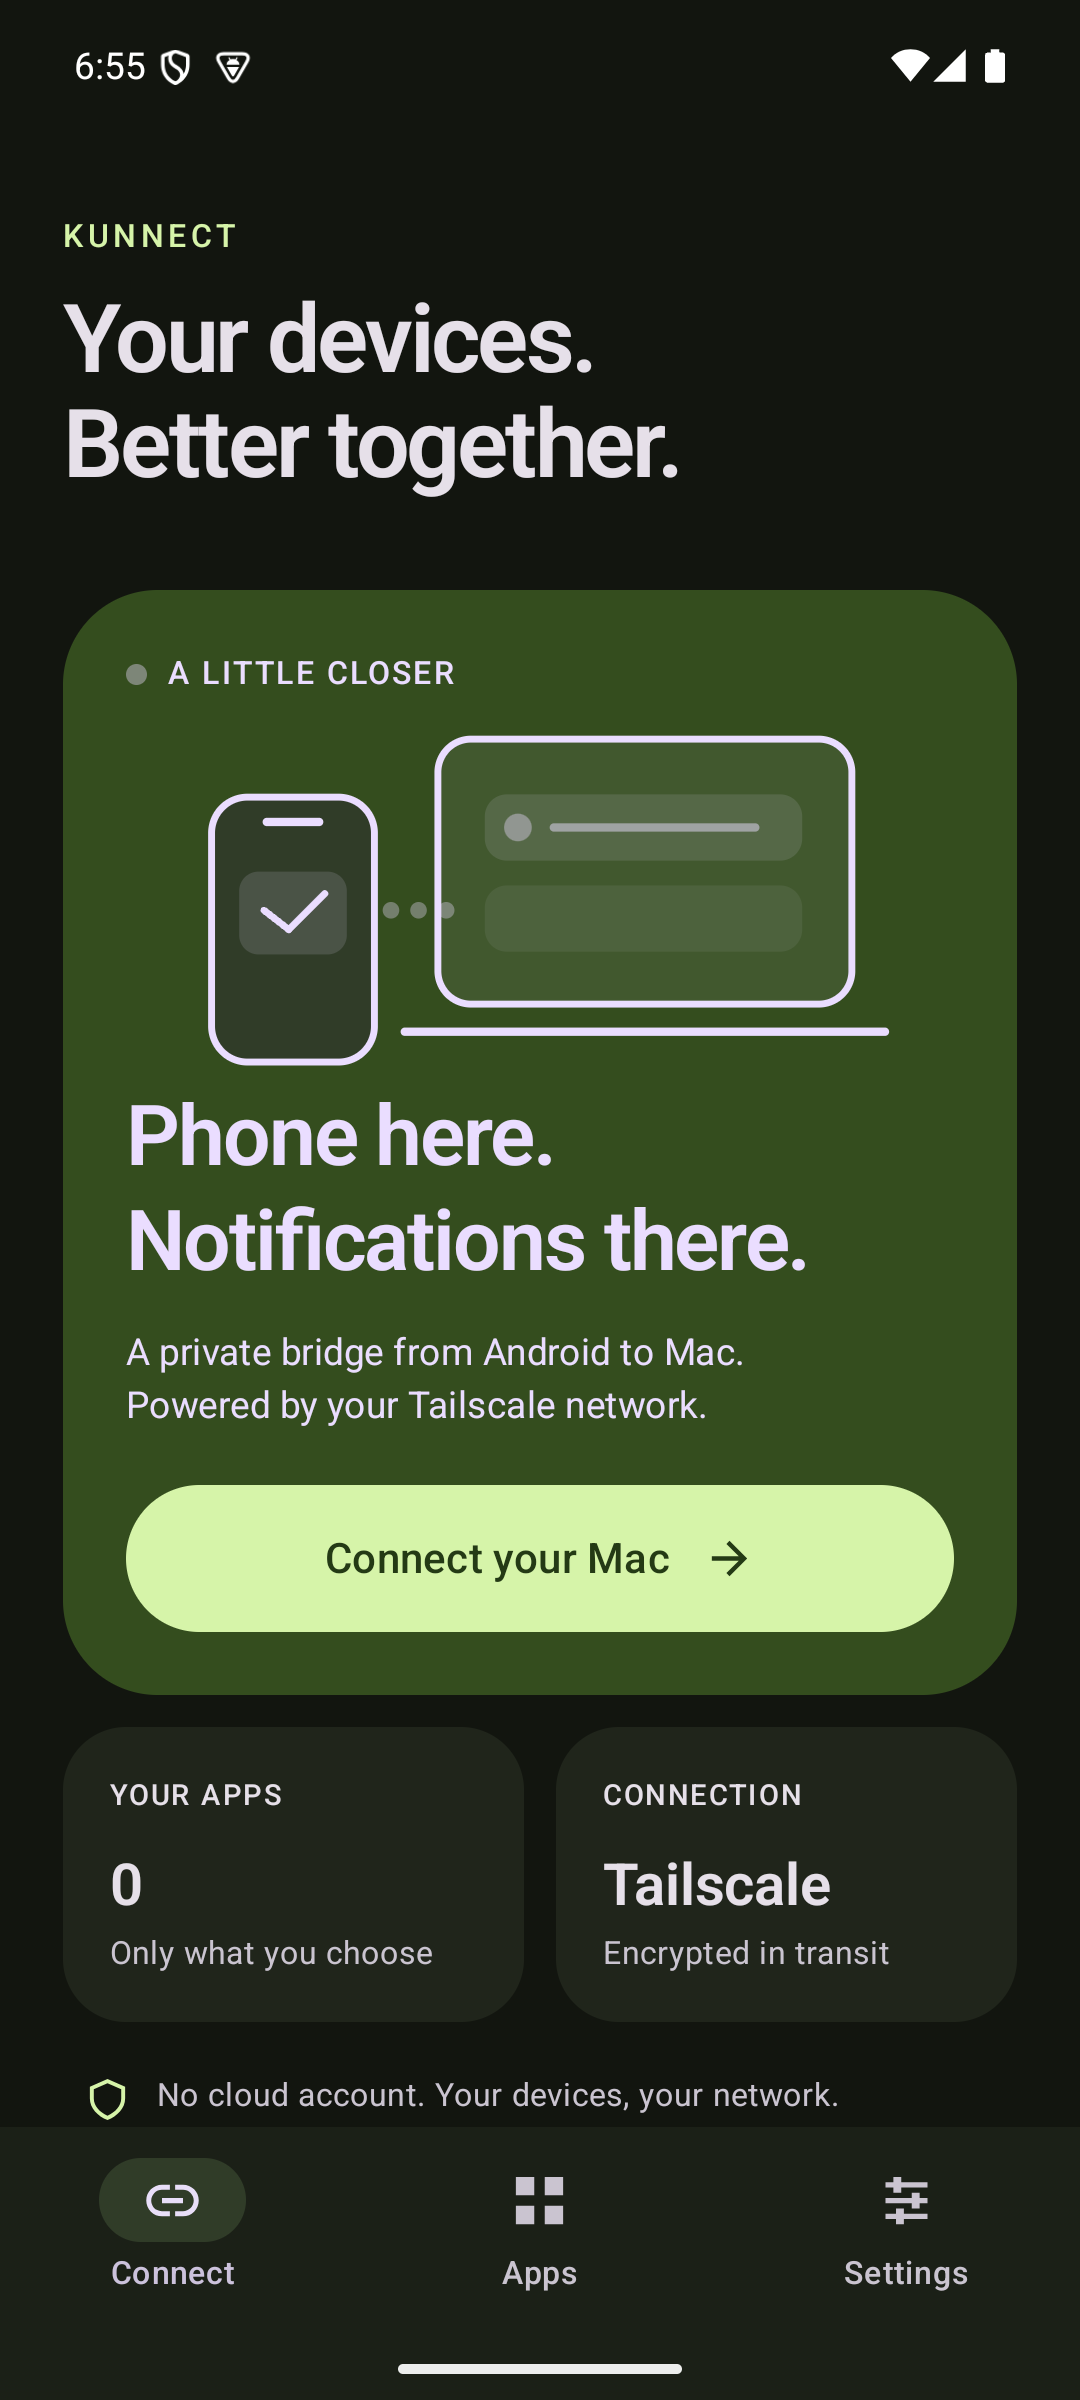
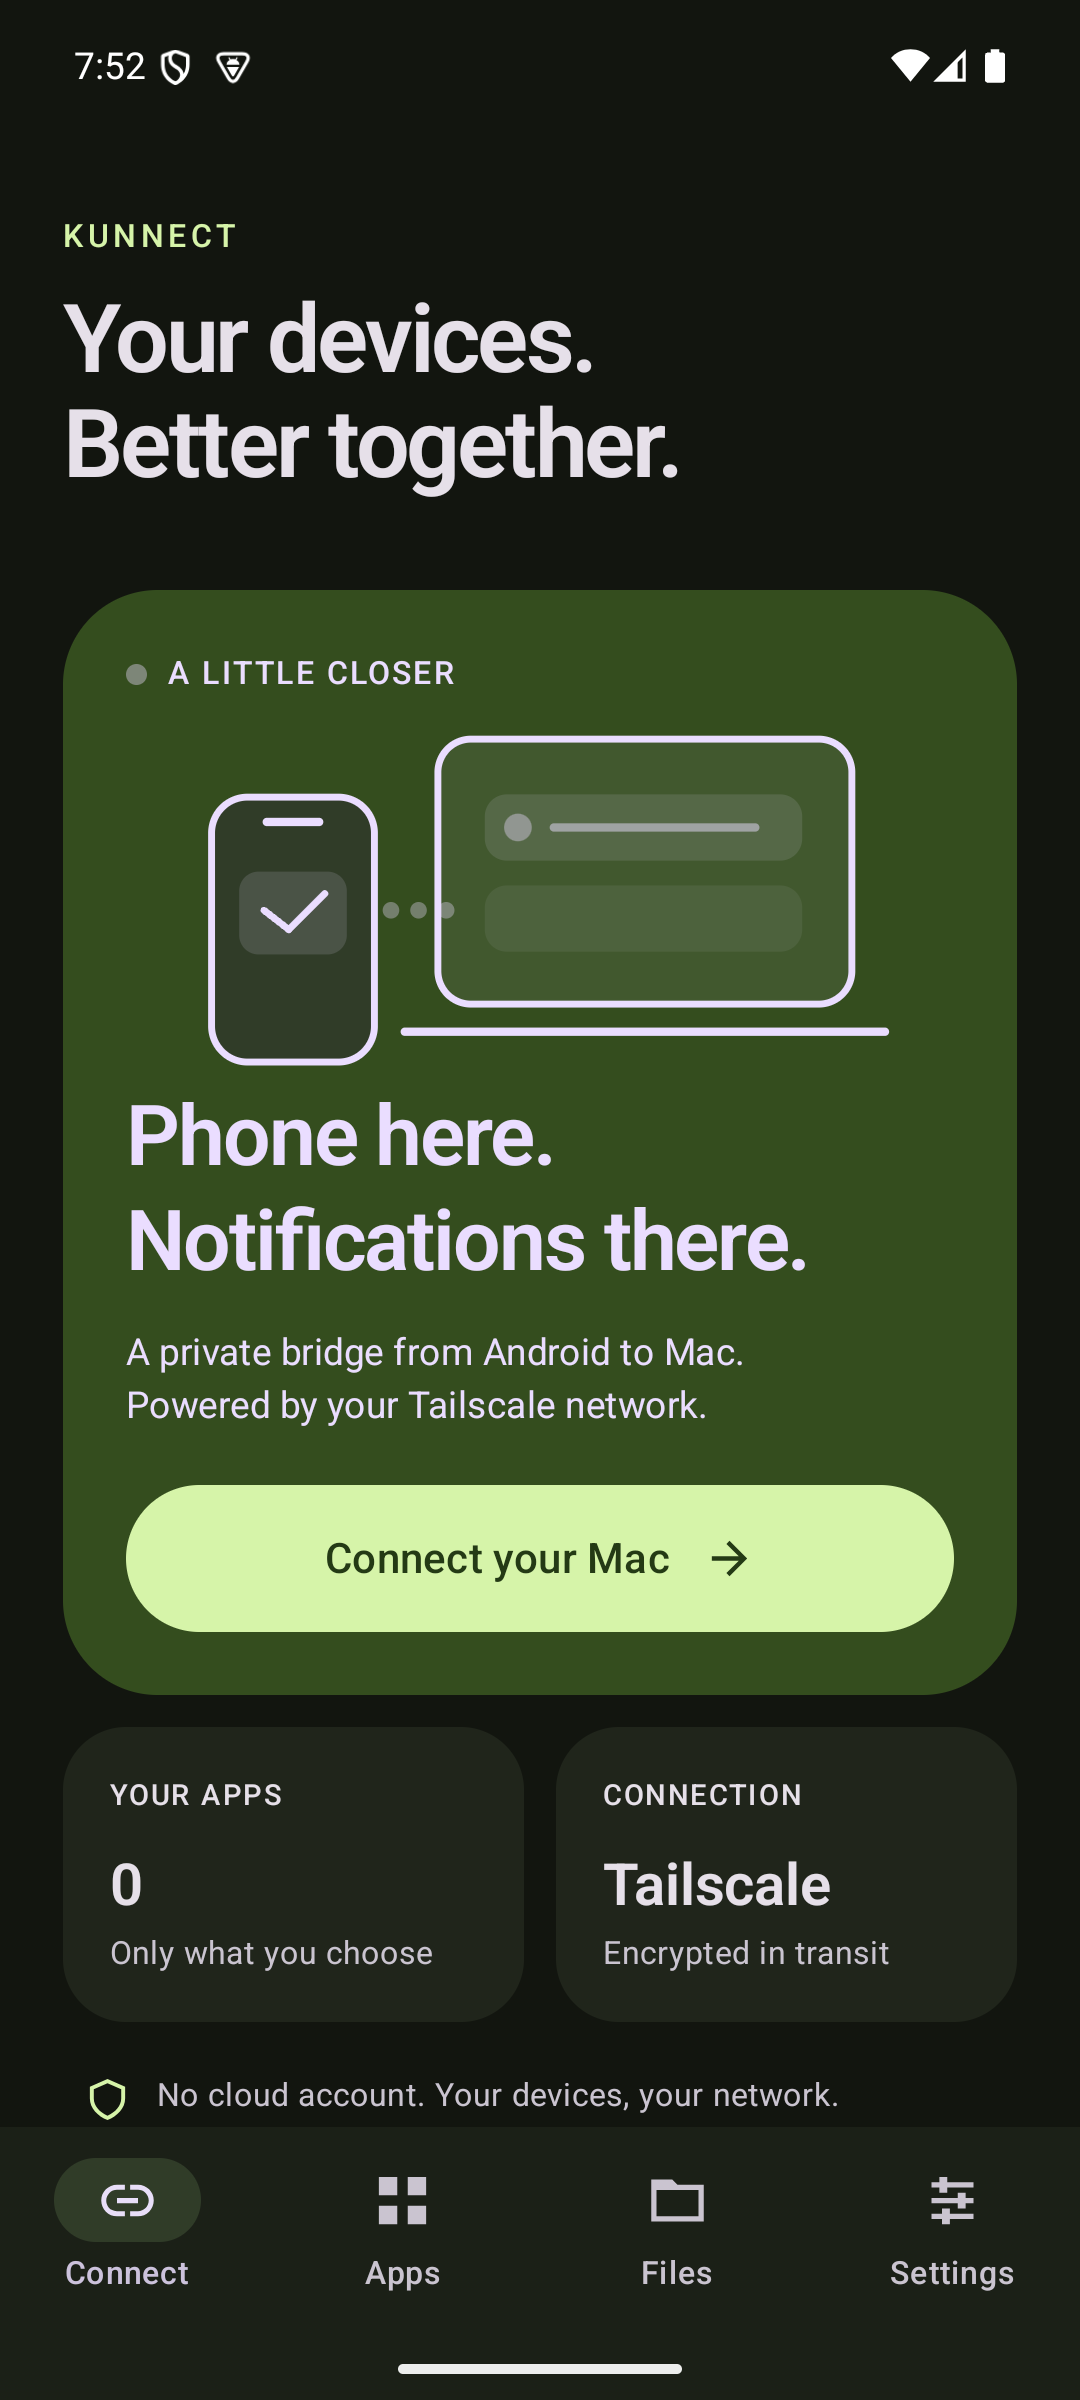
Keep file workers demand-driven and record release UI validation

diff --git a/android/app/src/main/java/dev/kunnect/FileShareServer.kt b/android/app/src/main/java/dev/kunnect/FileShareServer.kt
@@ -43,7 +43,9 @@ class FileShareServer(private val context: Context, private val requestedPort: I
             key = token; allowedPeer = prefs.host; folder = selected
             val listener = ServerSocket().apply { reuseAddress = true; bind(InetSocketAddress(requestedPort), 4) }
             server = listener; configuration = config
-            val pool = ThreadPoolExecutor(0, 4, 20, TimeUnit.SECONDS, ArrayBlockingQueue(4), { task -> Thread(task, "Kunnect files").apply { isDaemon = true } })
+            val pool = ThreadPoolExecutor(4, 4, 20, TimeUnit.SECONDS, ArrayBlockingQueue(4), { task -> Thread(task, "Kunnect files").apply { isDaemon = true } })
+            // Start workers only on demand, and let every worker disappear when idle.
+            pool.allowCoreThreadTimeOut(true)
             workers = pool
             Thread({
                 while (!listener.isClosed) {

diff --git a/scripts/capture-android.py b/scripts/capture-android.py
@@ -4,6 +4,7 @@ import os
 from pathlib import Path
 import re
 import subprocess
+import time
 import xml.etree.ElementTree as ET
 root = Path(__file__).resolve().parents[1]
 adb = str(Path(os.environ.get('ANDROID_HOME', str(Path.home() / 'Library/Android/sdk'))) / 'platform-tools/adb')
@@ -11,12 +12,19 @@ output = root / 'docs/screenshots'
 output.mkdir(parents=True, exist_ok=True)
 def run(*args): return subprocess.run([adb, '-e', *args], check=True, capture_output=True).stdout
 def tree():
-    run('shell', 'uiautomator', 'dump', '/sdcard/kunnect-ui.xml')
-    return ET.fromstring(run('shell', 'cat', '/sdcard/kunnect-ui.xml'))
+    # Never read a stale dump when an animated window transition has no current root.
+    for _ in range(8):
+        run('shell', 'rm', '-f', '/sdcard/kunnect-ui.xml')
+        output = run('shell', 'uiautomator', 'dump', '/sdcard/kunnect-ui.xml')
+        if b'dumped to' in output:
+            return ET.fromstring(run('shell', 'cat', '/sdcard/kunnect-ui.xml'))
+        time.sleep(.3)
+    raise RuntimeError('No current Android UI tree')
+
 def tap(label):
     node = next(n for n in tree().iter('node') if n.get('text') == label)
     x1,y1,x2,y2 = map(int, re.findall(r'\d+', node.get('bounds')))
-    run('shell','input','tap',str((x1+x2)//2),str((y1+y2)//2))
+    run('shell','input','tap',str((x1+x2)//2),str((y1+y2)//2)); time.sleep(.5)
 def capture(name, required):
     nodes = list(tree().iter('node'))
     assert any(required in n.get('text','') and n.get('package') == 'dev.kunnect' for n in nodes), f'Wrong screen: {name}'

diff --git a/scripts/check-release-ui.py b/scripts/check-release-ui.py
@@ -4,15 +4,23 @@ import os
 from pathlib import Path
 import re
 import subprocess
+import time
 import xml.etree.ElementTree as ET
 adb = str(Path(os.environ.get('ANDROID_HOME', str(Path.home() / 'Library/Android/sdk'))) / 'platform-tools/adb')
 def run(*args): return subprocess.run([adb,'-e',*args],capture_output=True,check=True).stdout
 def tree():
-    run('shell','uiautomator','dump','/sdcard/kunnect-ui.xml')
-    return ET.fromstring(run('shell','cat','/sdcard/kunnect-ui.xml'))
+    # Never read a stale dump when an animated window transition has no current root.
+    for _ in range(8):
+        run('shell', 'rm', '-f', '/sdcard/kunnect-ui.xml')
+        output = run('shell', 'uiautomator', 'dump', '/sdcard/kunnect-ui.xml')
+        if b'dumped to' in output:
+            return ET.fromstring(run('shell', 'cat', '/sdcard/kunnect-ui.xml'))
+        time.sleep(.3)
+    raise RuntimeError('No current Android UI tree')
+
 def press(node):
     a,b,c,d = map(int,re.findall(r'\d+',node.get('bounds')))
-    run('shell','input','tap',str((a+c)//2),str((b+d)//2))
+    run('shell','input','tap',str((a+c)//2),str((b+d)//2)); time.sleep(.5)
 def tap(text): press(next(n for n in tree().iter('node') if n.get('text') == text))
 run('shell','am','force-stop','dev.kunnect')
 run('shell','am','start','-n','dev.kunnect/.MainActivity')

diff --git a/docs/TESTING.md b/docs/TESTING.md
@@ -6,7 +6,7 @@ Added on 30 October 2026:
 - **Actual macOS native WebDAV mounts backed by the Android emulator over an adb-forwarded socket:** read an Android document; verify a read-only mount rejects writes; eject; mount writable; create/read/rename/delete a file; copy a local Mac file through filesystem APIs; eject. This tests the shipped NetFS helper and Android server, not a mocked filesystem. `./scripts/test-mounted-folder.sh` reproduces it after the debug fixture APKs are installed.
 - Existing notification lifecycle, old-Mac handshake compatibility, encrypted pairing, Swift mirror/security and live TCP checks pass after the heartbeat change. Standard instrumentation reports five tests, including one optional mount-fixture test skipped outside its explicit run.
 - The DMG builds, mounts read-only, includes the signed app and `/Applications` shortcut, and carries Finder icon positions/window metadata. Its embedded app passes strict code-signature verification.
-- Debug/release builds and lint pass. UI checks cover the Files tab and optional battery prompt. No physical-phone battery percentage or runtime guarantee is claimed.
+- Debug/release builds and lint pass. UI checks cover the Files tab, optional battery prompt/skip path and system exemption request. The real Android system picker granted access to a dedicated local test folder; access persisted after process restart, write access defaulted to off, and the forget-folder flow cleared the selection. The signed 0.2.0 APK also installed over the prior signed 0.1.0 release. No physical-phone battery percentage or runtime guarantee is claimed.
 
 The native mount test uses loopback forwarding for an isolated emulator and a synthetic pairing secret. Production Android does not permit that loopback exception. Hardware Tailscale/radio/battery conditions and native Mac notification gestures remain separate acceptance tests.
 

diff --git a/README.md b/README.md
@@ -2,7 +2,7 @@
 
 Your Android notifications, on your Mac. A small native companion pair using your existing Tailscale network.
 
-<p><img src="docs/screenshots/android-home.png" width="240" alt="Kunnect Android connection screen"> <img src="docs/screenshots/android-apps.png" width="240" alt="Choose apps to mirror"> <img src="docs/screenshots/android-dark.png" width="240" alt="Kunnect dark theme"></p>
+<p><img src="docs/screenshots/android-home.png" width="240" alt="Kunnect Android connection screen"> <img src="docs/screenshots/android-apps.png" width="240" alt="Choose apps to mirror"> <img src="docs/screenshots/android-files-selected.png" width="240" alt="Scoped Android folder with read-only default"></p>
 
 ## What it does
 
